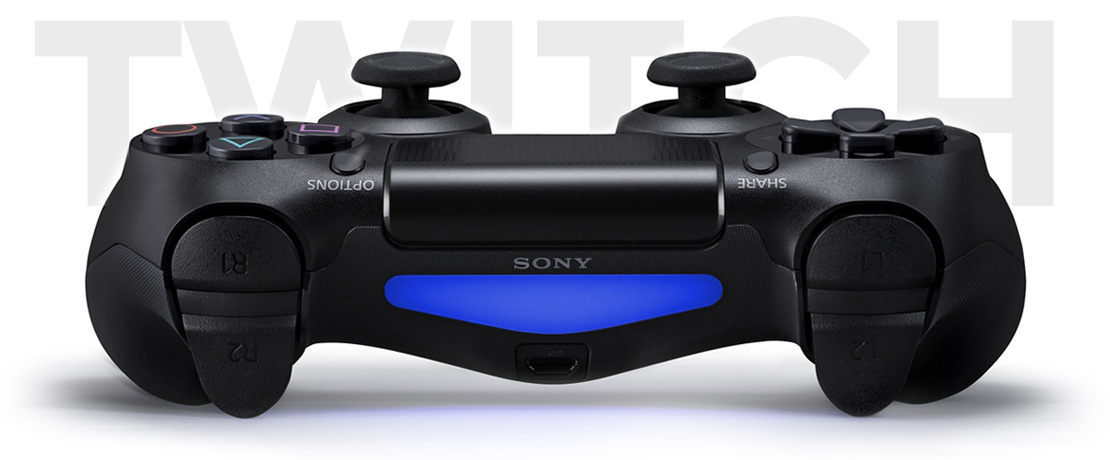
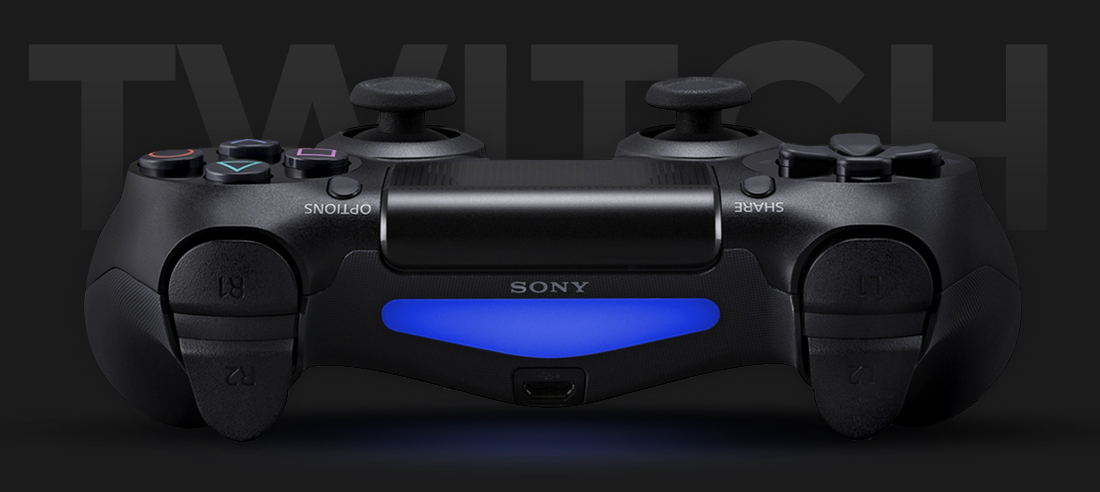
new heros

diff --git a/index.php b/index.php
@@ -16,7 +16,11 @@
 			
 				<?php
 					$heroes = array(
-						'twitch-hero-image-dark',
+						'am-image',
+						'djbooth-image',
+						'history-image',
+						'madden-image',
+						'twitch-image',
 					);
 					shuffle($heroes);
 					echo '<img src="img/'.$heroes[0].'.jpg" alt=""/>';
